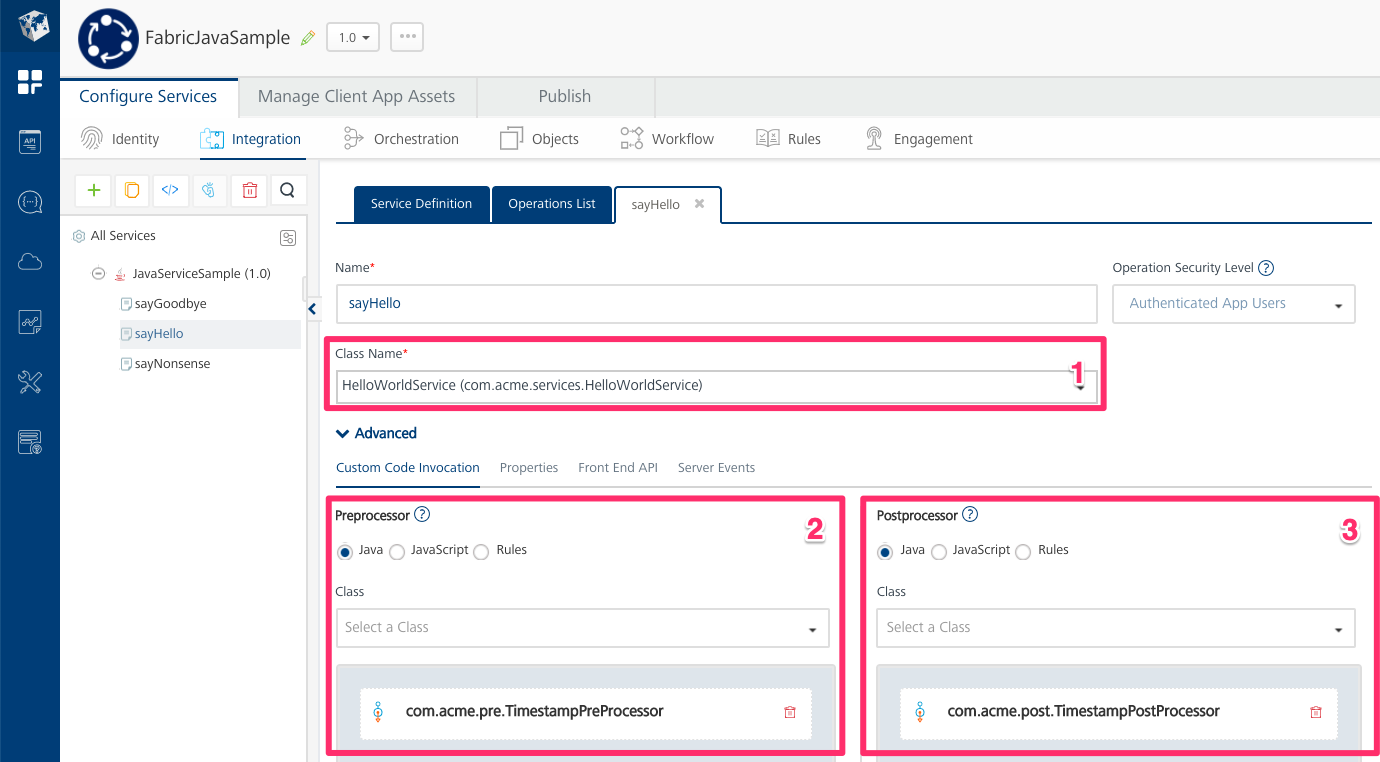
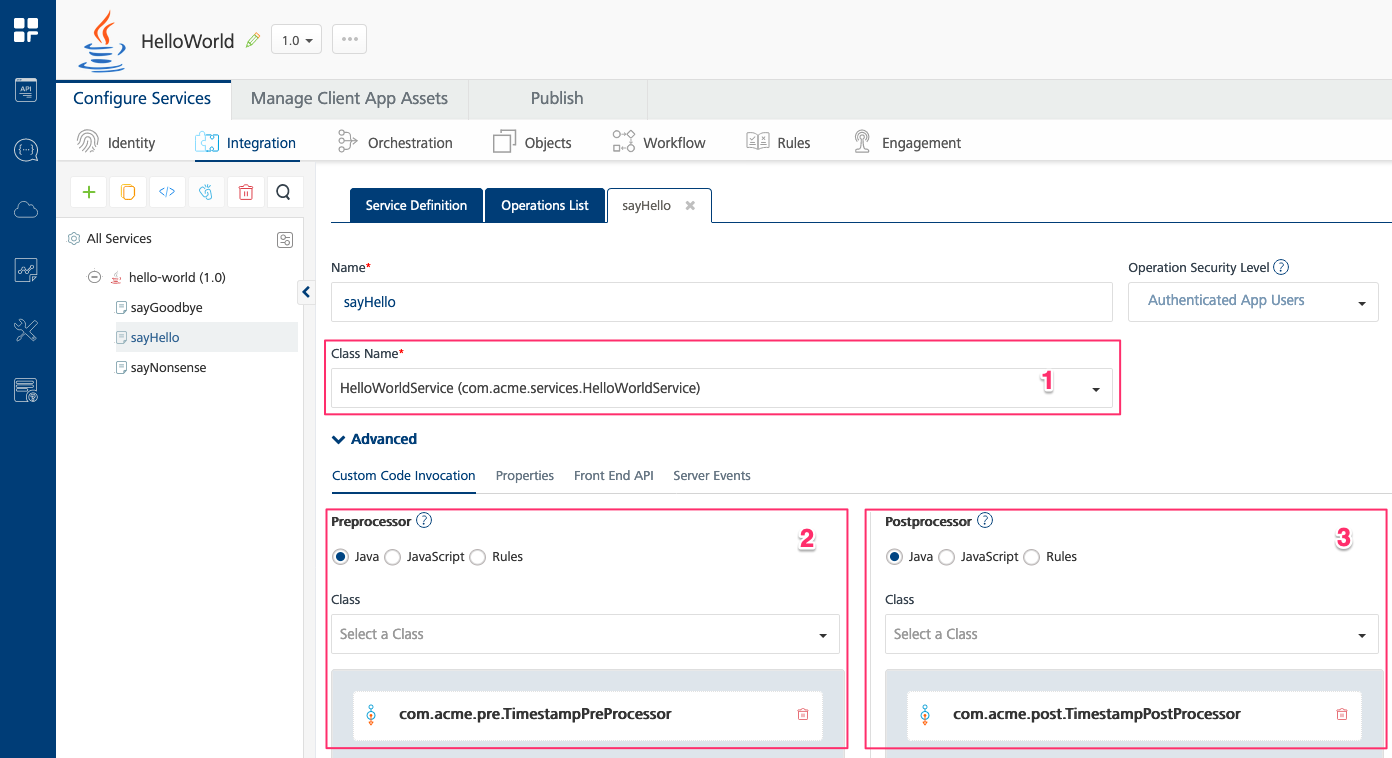
Update README

diff --git a/README.md b/README.md
@@ -1,6 +1,6 @@
 # A Sample Fabric Application with Java Custom Code
 
-A dummy Fabric application showcasing a sample Java service, pre-processor and post-processor.
+A *Hello World* Fabric application showcasing a sample Java service, pre-processor and post-processor.
 
 ## Repository Structure
 
@@ -10,14 +10,17 @@ both the Fabric application and the source code for its Java dependencies in the
 ```
 .
 ├── fabric
-│   └── FabricJavaSample
+│   └── HelloWorld
+│      └── Apps
 └── java
-    └── HelloWorld
+	└── HelloWorld
+		├── pom.xml
+		└── src
 ```
 
 ## The Fabric App
 
-The `fabric/FabricJavaSample` subdirectory stores the Fabric application as it would result from exporting and
+The `fabric/HelloWorld` subdirectory stores the Fabric application as it would result from exporting and
 extracting the Fabric application into a directory by the same name.
 
 As this is just a *"Hello World"* example, the app itself is not very interesting. **The intent of this project and repository
@@ -25,7 +28,7 @@ is to show how to develop, test, version and use custom Java code in Fabric.**
 
 In the image below shows the service definition.
 
-![Service definition](pics/fabric-app-1.-service-def.png "Service definition")
+![Service definition](pics/fabric-app-1-service-def.png "Service definition")
 
 1. The Fabric app has one single service of the ***Java Adapter*** type.
 2. The JAR generated from the Java source code in this repository has been uploaded and selected as part of the service
@@ -44,7 +47,7 @@ operation. Note that you should ideally implement each service in a different cl
 
 The `java/HelloWorld` subdirectory stores the source code for a Java project which implements a custom service
 `HelloWorldService`, a pre-processor `TimestampPreProcessor` and a post-processor `TimestampPostProcessor` which
-are in turn used by the Fabric application stored under `fabric/FabricJavaSample`. It includes:
+are in turn used by the Fabric application stored under `fabric/HelloWorld`. It includes:
 
 ### Class *com.acme.services.HelloWorldService*
 
@@ -66,21 +69,21 @@ Notice that `fabric/.gigignore` makes sure that you **don't push into source con
 would result from exporting the app from the Fabric Console and decompressing it. This is meant to help enforce **the
 best practice that compressed files and binaries should not go into source control**.
 
-As a consequence, just compressing and importing the contents of `fabric/FabricJavaSample` will not result in a working
+As a consequence, just compressing and importing the contents of `fabric/HelloWorld` will not result in a working
 Fabric application. You will need to first build the Java dependencies and then add them to the Fabric app bundle before
 importing it.
 
 **Steps:**
 
 1. Build the Java project in the `java/HelloWorld` directory. You can do this by stepping into it and running `mvn package`.
-2. Copy the resulting JAR file from the `java/HelloWorld/target/` directory to the `fabric/FabricJavaSample/Apps/_JARs/` directory.
-3. Compress the `fabric/FabricJavaSample` directory in Zip format.
+2. Copy the resulting JAR file from the `java/HelloWorld/target/` directory to the `fabric/HelloWorld/Apps/_JARs/` directory.
+3. Compress the `fabric/HelloWorld` directory in Zip format.
 4. Import the resulting Zip file into the Fabric Console.
 
 The end result just before step #3 should be that your `_JARs` subdirectory looks like this:
 
 ```
-fabric/FabricJavaSample/Apps/_JARs/
+fabric/HelloWorld/Apps/_JARs/
 ├── HelloWorld-1.0-SNAPSHOT.jar
 └── HelloWorld-1.0-SNAPSHOT.meta.json
 ```
@@ -95,10 +98,10 @@ You will see the Maven and Zip output, and at the end you'll see this message.
 
 ```
 Done!
-Now import FabricJavaSample.zip into Fabric.
+Now import HelloWorld.zip into Fabric.
 ```
 
-As the message states, you can now import `FabricJavaSample.zip` into the Fabric Console. Either manually through the UI, or by using the Fabric CLI.
+As the message states, you can now import `HelloWorld.zip` into the Fabric Console. Either manually through the UI, or by using the Fabric CLI.
 
 ## Implementation Notes
 
